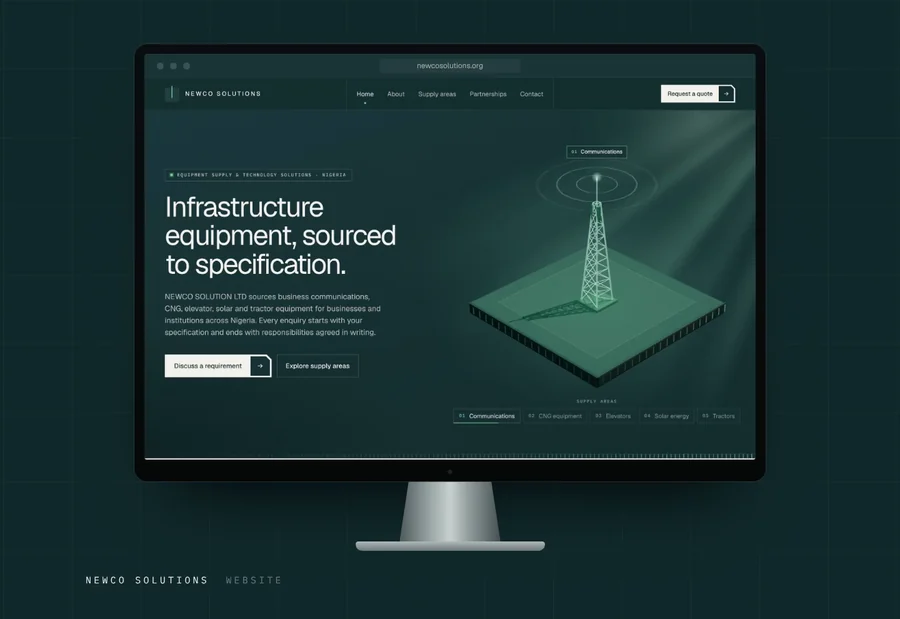
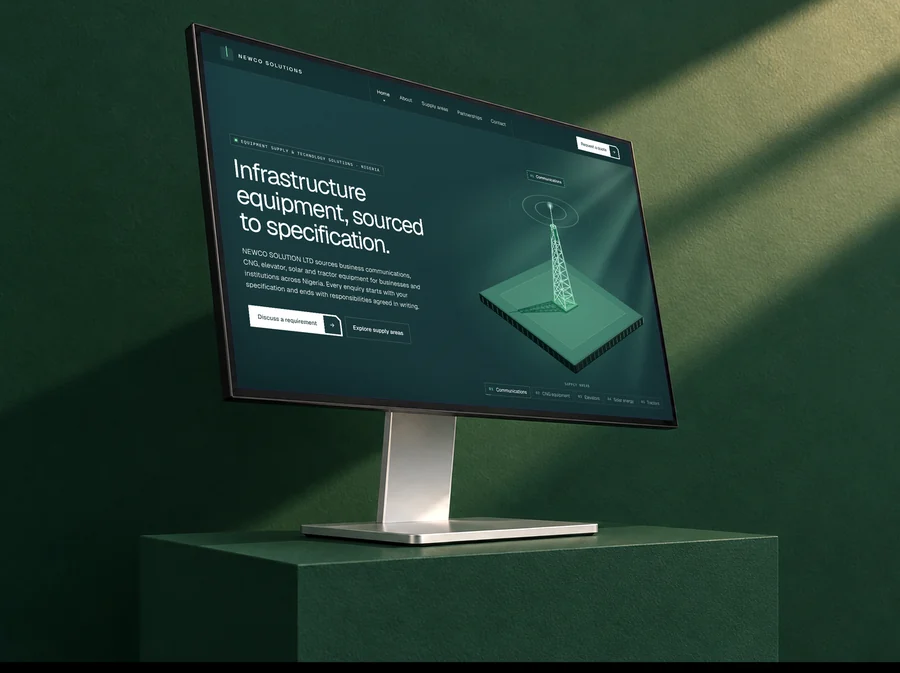
NewCo card: photographic first shot (monitor on green plinth); alt text
Claude-Session: https://claude.ai/code/session_01RM6AwGwnHcAYYXnMABwLuz

diff --git a/index.html b/index.html
@@ -2412,7 +2412,7 @@ a.dr{text-decoration:none}
     <article class="proj" id="p-newco" style="--i:2;--brand:#1A3738">
       <div class="p-card">
         <a class="p-media" href="/work/newco" aria-label="Read the NewCo Solutions case study">
-          <img src="/assets/img/home-nc2.webp" srcset="/assets/img/home-nc2-900.webp 900w, /assets/img/home-nc2.webp 1440w" sizes="(max-width: 900px) 92vw, 56vw" loading="lazy" decoding="async" alt="NewCo Solutions: A website for an infrastructure equipment supplier">
+          <img src="/assets/img/home-nc2.webp" srcset="/assets/img/home-nc2-900.webp 900w, /assets/img/home-nc2.webp 1440w" sizes="(max-width: 900px) 92vw, 56vw" loading="lazy" decoding="async" alt="NewCo Solutions: newcosolutions.org on a desktop monitor, on a green plinth in raking sunlight">
           <video muted loop playsinline preload="none" aria-hidden="true" data-src="/assets/video/home-nc2.mp4" data-src-m="/assets/video/home-nc2-m.mp4" data-src-t="/assets/video/home-nc2-t.mp4"></video>
           <span class="p-badge"><i></i>Live site</span>
         </a>
